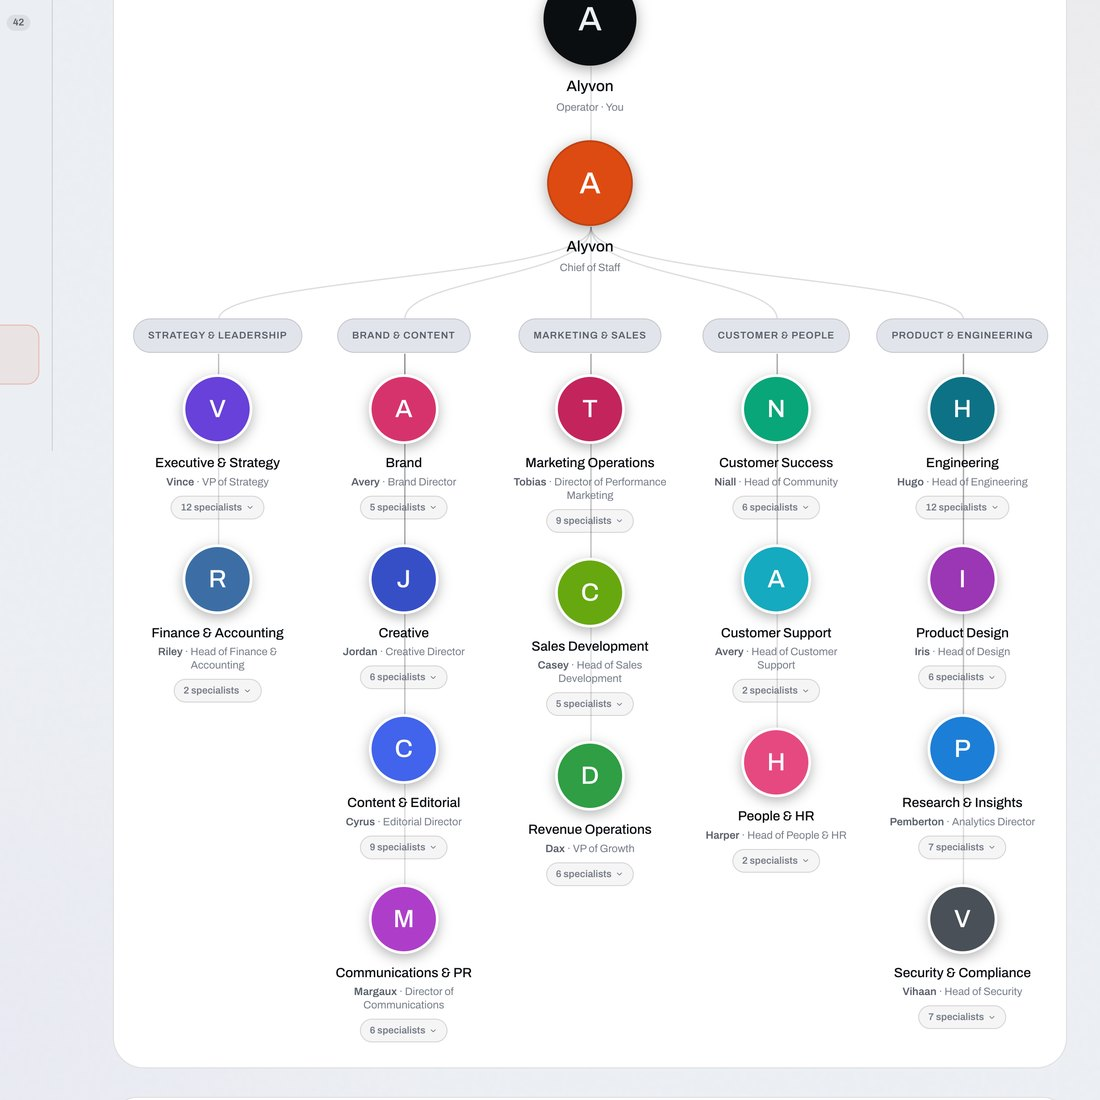
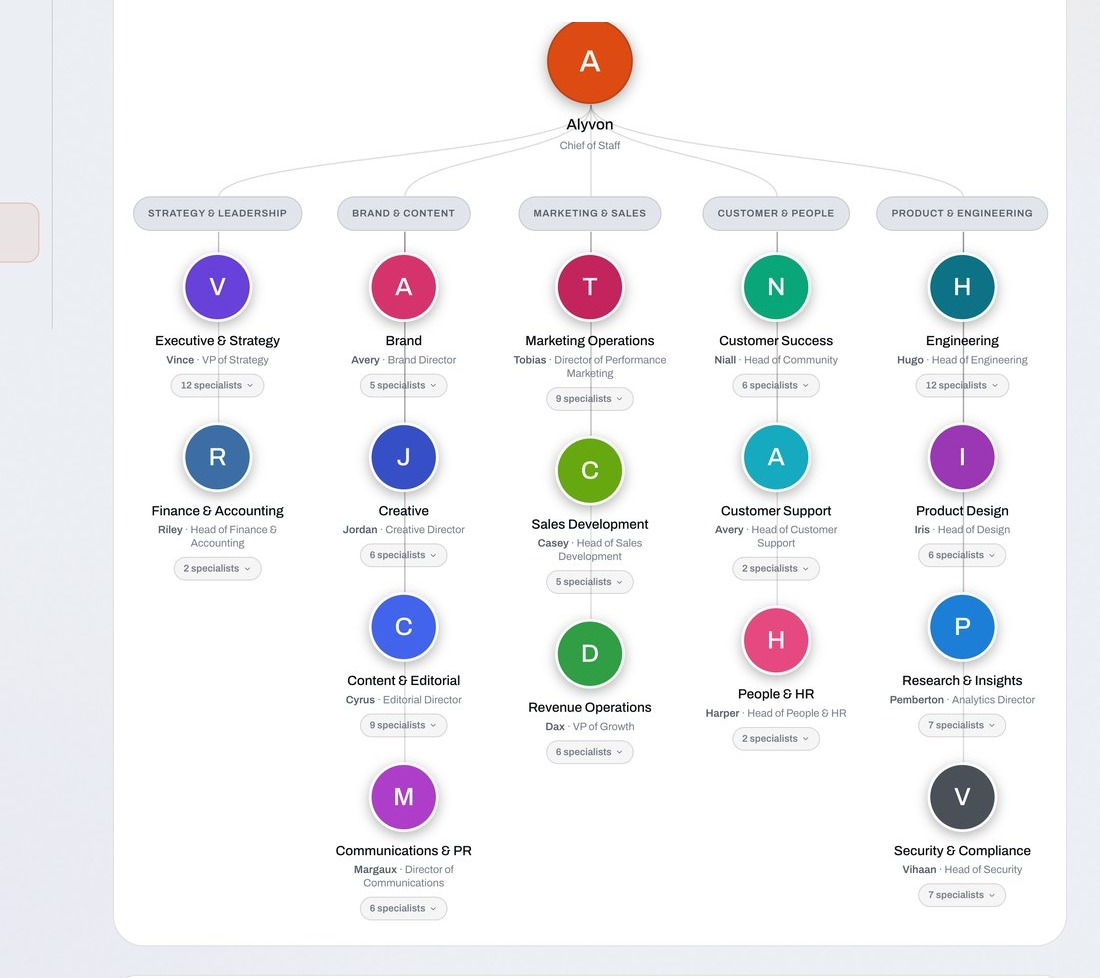
fix(site): crop the org-chart top so it starts at the orange Chief-of-Staff node
The "How Alyvon routes work" org chart on /workforce led with the black
"Alyvon · Operator · You" node above the orange "Alyvon · Chief of Staff"
node. Cropped that top node off so the chart now starts at the orange
Chief-of-Staff node (erased the leftover connector stub above it).

The image goes from 1100x1100 to 1100x978, so its MediaFrame moves from
aspect 1:1 to a new 9:8 ratio (added to the aspect map — additive only, per
the component's contract) so object-cover shows the full chart without
re-cropping the sides.

Changed region(s): [[0.4636, 0.0, 0.9582, 0.9509], [0.3091, 0.184, 0.4327, 0.9509], [0.1236, 0.184, 0.2782, 0.6442]]

diff --git a/components/ui/media-frame.tsx b/components/ui/media-frame.tsx
@@ -15,11 +15,12 @@ import { cn } from "@/lib/utils"
 
 // Creative-gallery addendum: "9:16" (vertical Reel/Story posters) and "ad" (1200×627 ad
 // units) added for the /workforce/creative sample gallery — additive, aspect-ratio only.
-export type MediaFrameAspect = "16:9" | "1:1" | "4:3" | "16:10" | "3:2" | "4:5" | "9:16" | "ad"
+export type MediaFrameAspect = "16:9" | "1:1" | "9:8" | "4:3" | "16:10" | "3:2" | "4:5" | "9:16" | "ad"
 
 const aspectClassMap: Record<MediaFrameAspect, string> = {
   "16:9": "aspect-video",
   "1:1": "aspect-square",
+  "9:8": "aspect-[9/8]",
   "4:3": "aspect-[4/3]",
   "16:10": "aspect-[16/10]",
   "3:2": "aspect-[3/2]",

diff --git a/app/workforce/page.tsx b/app/workforce/page.tsx
@@ -264,7 +264,7 @@ export default function WorkforcePillarPage() {
             <MediaFrame
               src="/images/homepage/credibility-org-chart.jpg"
               alt="An org chart: a Director over a bench of specialists, each scoped to one kind of output"
-              aspect="1:1"
+              aspect="9:8"
               containerClassName="mx-auto max-w-[440px]"
               sizes="(min-width: 1024px) 440px, 100vw"
             />
